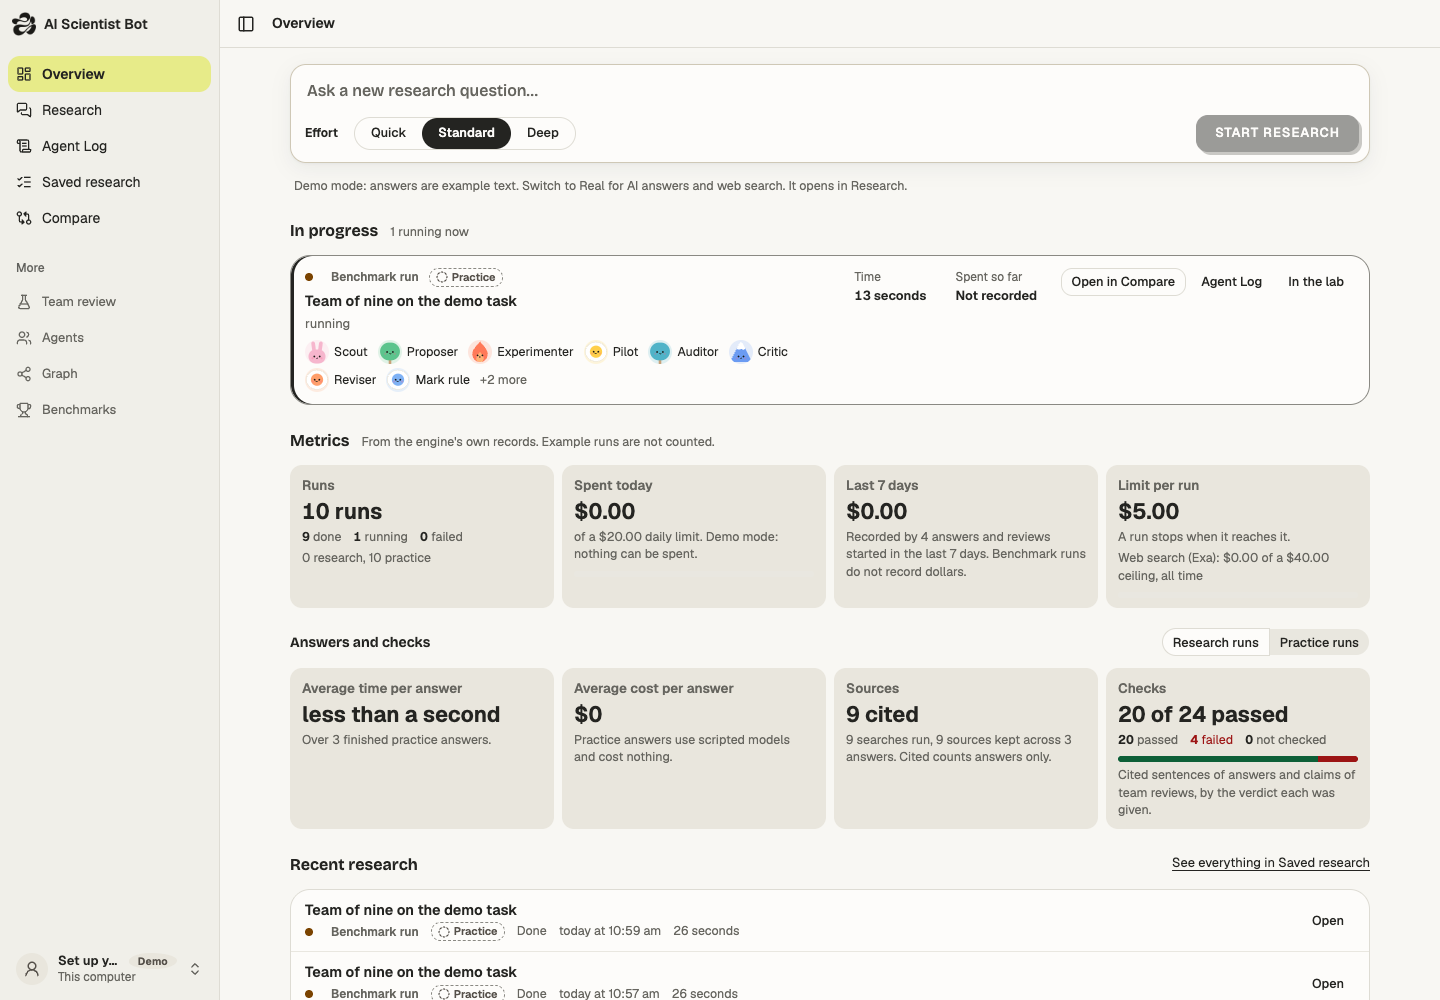
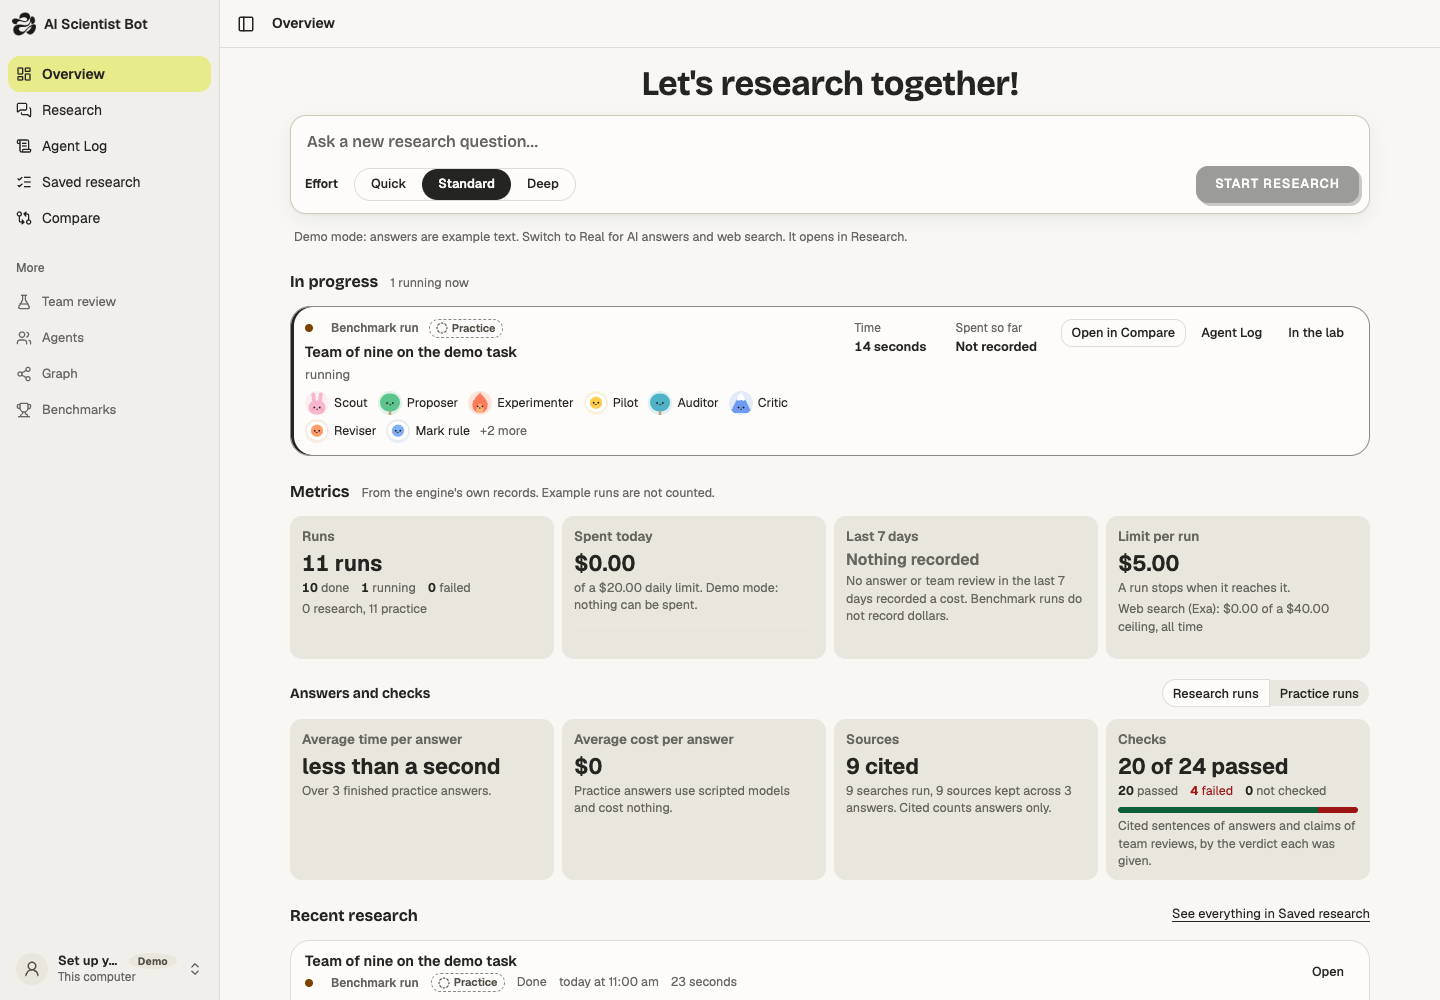
no-mistakes(review): Scope run counts, relabel cap, add home heading

diff --git a/dashboard/src/views/overview.test.tsx b/dashboard/src/views/overview.test.tsx
@@ -91,6 +91,15 @@ describe("the home page: research in progress", () => {
     expect(within(answer).getByRole("link", { name: "Agent Log" }).getAttribute("href")).toBe("#Lab/answer/a-run")
   })
 
+  it("a row past the followed few does not claim its run is only starting", async () => {
+    show({ board: Array.from({ length: 5 }, (_, i) => ({ id: `b-${i}`, brief: "kras.md", status: "running", startedAt: NOW - (10 - i) * MIN, mock: true, members: [] })) })
+    const list = await screen.findByRole("list", { name: "Research in progress" })
+    const rows = within(list).getAllByRole("listitem").filter((li) => li.classList.contains("ov-run"))
+    expect(rows).toHaveLength(5)
+    expect(within(rows[4]).getByLabelText("Now").textContent).toBe("Step not shown here. Open the Agent Log to follow it.")
+    expect(streams.some((s) => s.url.endsWith("/api/runs/b-4/events"))).toBe(false)
+  })
+
   it("says plainly when nothing is running", async () => {
     show({ answers: { items: [{ id: "a1", question: "Old", status: "done", mode: "demo", startedAt: NOW - HOUR }] } })
     expect(await within(section("In progress")).findByText(/Nothing is running now/)).toBeTruthy()
@@ -124,16 +133,20 @@ describe("the home page: research in progress", () => {
 })
 
 describe("the home page: metrics from recorded data only", () => {
-  it("counts done, running and failed runs (examples never), and research apart from practice", async () => {
+  it("counts done, running and failed runs of the chosen scope only (examples never)", async () => {
     show({
       board: [{ id: "b-live", brief: "kras.md", status: "done", startedAt: NOW - 2 * HOUR }, { id: "b-practice", brief: "kras.md", status: "done", startedAt: NOW - 3 * HOUR }, { id: "ex", brief: "x.md", status: "done", startedAt: NOW, example: true }],
       answers: { items: [{ id: "a1", question: "Does it work?", status: "done", mode: "real", startedAt: NOW - HOUR }, { id: "a2", question: "A practice one", status: "running", mode: "demo", startedAt: NOW }] },
       swarm: [{ id: "s1", solver: "glhf", task: "demo", phase: "done", model: "mock", modelClass: "scripted", startedAt: NOW - 4 * HOUR }, { id: "s2", solver: "single", task: "demo", phase: "failed", model: "mock", modelClass: "scripted", startedAt: NOW - 5 * HOUR }],
     })
     // The older team reviews say how they were made in their first event: wait for both to be read.
-    await waitFor(() => expect(tile("Runs").textContent).toContain("2 research, 4 practice"))
-    expect(tile("Runs").textContent).toContain("6 runs")
-    expect(tile("Runs").textContent).toContain("4 done1 running1 failed")
+    // Research: b-live (real models, said in its first event) and a1.
+    await waitFor(() => expect(tile("Runs").textContent).toContain("2 runs"))
+    expect(tile("Runs").textContent).toContain("2 done0 running0 failed")
+    // Practice: b-practice, the Demo answer and the two scripted benchmark runs.
+    await userEvent.click(screen.getByRole("button", { name: "Practice runs" }))
+    expect(tile("Runs").textContent).toContain("4 runs")
+    expect(tile("Runs").textContent).toContain("2 done1 running1 failed")
   })
 
   it("shows today's spend against the engine's daily limit, and the recorded spend of the last 7 days", async () => {
@@ -149,8 +162,8 @@ describe("the home page: metrics from recorded data only", () => {
     await waitFor(() => expect(tile("Spent today").textContent).toContain("$3.46"))
     expect(tile("Spent today").textContent).toContain("of a $20.00 daily limit")
     expect(tile("Last 7 days").textContent).toContain("$3.00") // 0.5 + 1.5 + 1: the answer from a month ago is not in it
-    expect(tile("Limit per run").textContent).toContain("$5.00")
-    expect(tile("Limit per run").textContent).toContain("Web search (Exa): $0.04 of a $40.00 ceiling, all time")
+    expect(tile("Limit per team review").textContent).toContain("$5.00")
+    expect(tile("Limit per team review").textContent).toContain("Web search (Exa): $0.04 of a $40.00 ceiling, all time")
     // Averages over the three finished research answers, from their own records.
     expect(tile("Average time per answer").textContent).toContain("1 minute") // (60 + 120 + 30) / 3 = 70 s
     expect(tile("Average cost per answer").textContent).toContain("$3.67")
@@ -177,7 +190,7 @@ describe("the home page: metrics from recorded data only", () => {
     show({ paid: { paid: false, caps: {} } })
     await waitFor(() => expect(tile("Runs").textContent).toContain("0 runs"))
     expect(tile("Spent today").textContent).toContain("Not recorded")
-    expect(tile("Limit per run").textContent).toContain("Not recorded")
+    expect(tile("Limit per team review").textContent).toContain("Not recorded")
     expect(tile("Last 7 days").textContent).toContain("Nothing recorded")
     expect(tile("Average time per answer").textContent).toContain("No data")
     expect(tile("Average cost per answer").textContent).toContain("No data")
@@ -236,6 +249,9 @@ describe("the home page: the question box", () => {
     const { onOpen, sent } = show({}, { "POST /api/research": { status: 202, body: { id: "a-20261115000000-0000abcd", thread: "t-1", mode: "demo" } } })
     const box = await screen.findByLabelText("Ask a research question")
     expect(box.getAttribute("rows")).toBe("1") // one line
+    // The welcome heading stays above the box and names its section.
+    expect(screen.getByRole("heading", { level: 2, name: "Let's research together!" })).toBeTruthy()
+    expect(screen.getByRole("region", { name: "Let's research together!" }).contains(box)).toBe(true)
     await userEvent.type(box, "Is hERG a risk for KRAS G12C inhibitors?")
     await userEvent.click(screen.getByRole("button", { name: /^Send/ }))
     await waitFor(() => expect(onOpen).toHaveBeenCalledWith("Home"))

diff --git a/dashboard/src/overview/Metrics.tsx b/dashboard/src/overview/Metrics.tsx
@@ -1,5 +1,4 @@
-// The home page's numbers, from what the engine recorded and nothing else. Counts take every run (example runs are
-// never counted); spend today and the limits are the engine's own figures (GET /api/paid); the rest is counted from
+// The home page's numbers, from what the engine recorded and nothing else. Example runs are never counted; spend today and the limits are the engine's own figures (GET /api/paid); the rest is counted from
 // the run lists for research runs or for practice runs, never the two mixed. A number with nothing behind it says so.
 import { Button } from "@/components/ui/button"
 import { ButtonGroup } from "@/components/ui/button-group"
@@ -20,7 +19,7 @@ function Tile({ label, value, children, empty }: { label: string; value: string;
 }
 
 export function Metrics({ works, paid, scope, onScope }: { works: Work[]; paid: Paid | null | undefined; scope: Scope; onScope: (scope: Scope) => void }) {
-  const counts = countsOf(works)
+  const counts = countsOf(works, scope)
   const week = recentSpend(works, 7)
   const answer = perAnswer(works, scope)
   const sources = sourcesOf(works, scope)
@@ -28,10 +27,17 @@ export function Metrics({ works, paid, scope, onScope }: { works: Work[]; paid: 
   const which = scope === "research" ? "research" : "practice"
   return (
     <div className="ov-metrics">
+      <div className="ov-scope">
+        <h3 id="ov-scope-title">Which runs are counted</h3>
+        <ButtonGroup aria-labelledby="ov-scope-title">
+          <Button size="sm" variant={scope === "research" ? "secondary" : "outline"} aria-pressed={scope === "research"} onClick={() => onScope("research")}>Research runs</Button>
+          <Button size="sm" variant={scope === "practice" ? "secondary" : "outline"} aria-pressed={scope === "practice"} onClick={() => onScope("practice")}>Practice runs</Button>
+        </ButtonGroup>
+      </div>
       <div className="ov-tiles">
         <Tile label="Runs" value={many(counts.done + counts.running + counts.failed + counts.stopped, "run")}>
           <small className="ov-split"><span><b>{counts.done}</b> done</span><span><b>{counts.running}</b> running</span><span data-tone={counts.failed ? "bad" : undefined}><b>{counts.failed}</b> failed</span>{counts.stopped > 0 && <span><b>{counts.stopped}</b> stopped</span>}</small>
-          <small>{counts.research} research, {counts.practice} practice</small>
+          <small>{scope === "research" ? "Research runs only: practice runs are counted apart." : "Practice runs only: scripted models, $0."}</small>
         </Tile>
         <Tile label="Spent today" value={paid ? usdText(paid.spentToday) : "Not known"} empty={!paid || paid.spentToday === undefined}>
           {paid ? <>
@@ -42,8 +48,8 @@ export function Metrics({ works, paid, scope, onScope }: { works: Work[]; paid: 
         <Tile label="Last 7 days" value={week ? usdText(week.usd) : "Nothing recorded"} empty={!week}>
           <small>{week ? `Recorded by ${many(week.runs, "answer or review", "answers and reviews")} started in the last 7 days.` : "No answer or team review in the last 7 days recorded a cost."} Benchmark runs do not record dollars.</small>
         </Tile>
-        <Tile label="Limit per run" value={paid ? usdText(paid.perRun) : "Not known"} empty={!paid || paid.perRun === undefined}>
-          <small>A run stops when it reaches it.</small>
+        <Tile label="Limit per team review" value={paid ? usdText(paid.perRun) : "Not known"} empty={!paid || paid.perRun === undefined}>
+          <small>A team review stops when it reaches it. Each answer stops at its own level's cap.</small>
           {paid && paid.exaCeiling !== undefined && <>
             <small>Web search (Exa): {usdText(paid.exaUsed)} of a {usdText(paid.exaCeiling)} ceiling, all time</small>
             <div className="ov-track" role="img" aria-label={`${Math.round(share(paid.exaUsed, paid.exaCeiling))}% of the web search ceiling`}><i data-made="research" style={{ width: `${share(paid.exaUsed, paid.exaCeiling)}%` }} /></div>
@@ -51,13 +57,6 @@ export function Metrics({ works, paid, scope, onScope }: { works: Work[]; paid: 
         </Tile>
       </div>
 
-      <div className="ov-scope">
-        <h3 id="ov-scope-title">Answers and checks</h3>
-        <ButtonGroup aria-labelledby="ov-scope-title">
-          <Button size="sm" variant={scope === "research" ? "secondary" : "outline"} aria-pressed={scope === "research"} onClick={() => onScope("research")}>Research runs</Button>
-          <Button size="sm" variant={scope === "practice" ? "secondary" : "outline"} aria-pressed={scope === "practice"} onClick={() => onScope("practice")}>Practice runs</Button>
-        </ButtonGroup>
-      </div>
       <div className="ov-tiles">
         <Tile label="Average time per answer" value={answer.seconds === undefined ? "No data" : plainDuration(answer.seconds * 1000)} empty={answer.seconds === undefined}>
           <small>{answer.timed ? `Over ${many(answer.timed, `finished ${which} answer`)}.` : `No finished ${which} answer recorded its time yet.`}</small>

diff --git a/dashboard/src/overview/work.ts b/dashboard/src/overview/work.ts
@@ -95,17 +95,15 @@ export const elapsedOf = (w: Pick<Work, "startedAt" | "workStartedAt" | "finishe
 }
 
 // ---- The numbers ---------------------------------------------------------------------------------------------------
-export interface Counts { done: number; running: number; failed: number; stopped: number; research: number; practice: number }
-export function countsOf(works: readonly Work[]): Counts {
-  const c: Counts = { done: 0, running: 0, failed: 0, stopped: 0, research: 0, practice: 0 }
-  for (const w of counted(works)) {
+export interface Counts { done: number; running: number; failed: number; stopped: number }
+/** Runs of one scope by how they ended (or that they still run). */
+export function countsOf(works: readonly Work[], scope: Scope): Counts {
+  const c: Counts = { done: 0, running: 0, failed: 0, stopped: 0 }
+  for (const w of inScope(works, scope)) {
     if (w.live) c.running++
     else if (w.status === "failed") c.failed++
     else if (w.status === "cancelled" || w.status === "paused") c.stopped++
     else c.done++
-    const made = madeOf(w)
-    if (made === "research") c.research++
-    else if (made === "practice") c.practice++
   }
   return c
 }

diff --git a/dashboard/src/overview/QuickAsk.tsx b/dashboard/src/overview/QuickAsk.tsx
@@ -47,7 +47,8 @@ export function QuickAsk({ onOpen, onStarted }: { onOpen: (view: View) => void; 
   }
   const limit = answerLimitLine(catalog, level)
   return (
-    <section className="ov-ask" aria-label="New research">
+    <section className="ov-ask" aria-labelledby="ov-ask-title">
+      <h2 id="ov-ask-title" className="ov-ask-title">Let's research together!</h2>
       <AskBox id="ov-ask-box" rows={1} value={text} onChange={setText} onSubmit={(typed) => void ask(typed)} busy={busy} placeholder="Ask a new research question…"
         efforts={catalog?.efforts ?? []} effort={level} onEffort={setEffort} name="overview-effort" sendLabel="Start research" sendTitle="Start the answer and open it in Research">
         {refused ? <p className="newrun-error" role="alert">{refused}</p> : limit ? <p className="ov-note">{limit} It opens in Research.</p> : null}

diff --git a/dashboard/src/overview/Running.tsx b/dashboard/src/overview/Running.tsx
@@ -47,7 +47,7 @@ export function Running({ works, models, now, watched, onWatch, onOpenRun }: Run
                 <Provenance kind={work.provenance} compact />
               </div>
               <p className="ov-run-title">{work.title}</p>
-              <p className="ov-run-step" aria-label="Now">{seen.doing ?? "Starting. The first step has not been reported yet."}</p>
+              <p className="ov-run-step" aria-label="Now">{seen.doing ?? (models[key] ? "Starting. The first step has not been reported yet." : "Step not shown here. Open the Agent Log to follow it.")}</p>
               {seen.agents.length > 0 && (
                 <ul className="ov-run-agents" aria-label="Agents taking part">
                   {seen.agents.slice(0, 8).map((a) => <li key={a.name} title={a.label}><AgentAvatar name={a.name} size={24} /><span>{a.label}</span></li>)}

diff --git a/dashboard/src/overview/work.test.ts b/dashboard/src/overview/work.test.ts
@@ -53,8 +53,9 @@ describe("the figures", () => {
     ] },
     [],
   )
-  it("counts runs by how they ended, and research apart from practice", () => {
-    expect(countsOf(works)).toEqual({ done: 3, running: 0, failed: 1, stopped: 1, research: 4, practice: 1 })
+  it("counts runs of one scope by how they ended, never research and practice together", () => {
+    expect(countsOf(works, "research")).toEqual({ done: 2, running: 0, failed: 1, stopped: 1 }) // a1, a2; b1 failed; a4 cancelled
+    expect(countsOf(works, "practice")).toEqual({ done: 1, running: 0, failed: 0, stopped: 0 }) // the Demo answer a3
   })
   it("adds the dollars research runs started in the last 7 days recorded, never practice; none recorded is not $0", () => {
     expect(recentSpend(works, 7, NOW)).toEqual({ usd: 2.6, runs: 3 }) // b1, a1, a4: the practice a3 is not counted

diff --git a/dashboard/src/design/overview.css b/dashboard/src/design/overview.css
@@ -123,6 +123,8 @@
 .ov-home { gap: var(--space-5); }
 .ov-home > * { width: min(1100px, 100%); }
 .ov-ask .search-composer { margin: 0; }
+/* The welcome over the question box: large enough to read at a glance, smaller on narrow screens. */
+.ov-ask-title { margin: 0 0 var(--space-3); font-family: var(--font-display); font-size: clamp(26px, 2.2vw + 14px, 34px); font-weight: 650; line-height: 1.15; letter-spacing: -0.015em; color: var(--text); text-align: center; }
 .ov-ask .ov-note { margin-top: 6px; padding-inline: var(--space-1); }
 .ov-section { display: flex; flex-direction: column; gap: var(--space-3); min-width: 0; }
 .ov-section-head { display: flex; flex-wrap: wrap; align-items: baseline; gap: 4px var(--space-3); }

diff --git a/docs/status.md b/docs/status.md
@@ -141,7 +141,7 @@ sample.
 | Ask (question answering over runs) | Automated tests with a stand-in for the model API (`engine/test/glhf-ask.test.ts`). |
 | Docker Compose setup | Tested by hand on macOS on a new clone: `docker compose up --build`, then `docker compose exec engine npm run demo` (score 1.000) and `npm run doctor`. Not tested on Linux or Windows. Windows needs WSL2. |
 | Dashboard | Automated tests in `dashboard/src/`; run `npm --prefix dashboard test`. Quick and Standard Demo answers and a bundled KRAS team review were also checked by hand in a browser against an isolated engine, with paid calls off and locked. No real-model research answer was run. |
-| Overview as the home page: opens by default and from the sidebar brand; one-line question box that starts the answer and opens it in Research (its thread continues there); research in progress (question, agents, current step, time, spend so far, links to Research, Team review or Compare and the Agent Log); metrics from recorded data only (done, running and failed runs; spend today against the daily limit; recorded spend of the last 7 days; limit per run; average time and cost per answer; searches, sources kept and cited; checks passed, failed, not checked; research and practice apart); recent research; a compact Agent Lab | Automated tests with a stand-in engine in `dashboard/src/views/overview.test.tsx`, `dashboard/src/overview/work.test.ts` and `dashboard/src/overview/seen.test.ts`; the hand-off to Research in `dashboard/src/research/research.test.tsx`. The list lines the page reads are tested in `engine/test/research-all.test.ts` and `engine/test/board-listline.test.ts`. Checked by hand in a browser at 1440 and 420 pixels against an isolated engine with paid calls off and locked, with Demo answers, a scripted team review and scripted benchmark runs on the demo task. **Not seen with a real-model run**: no real spend was recorded. The step and agents of a benchmark run come from its notes, which say little while it runs. Room art is unchanged. |
+| Overview as the home page: opens by default and from the sidebar brand; a large "Let's research together!" heading over a one-line question box that starts the answer and opens it in Research (its thread continues there); research in progress (question, agents, current step, time, spend so far, links to Research, Team review or Compare and the Agent Log); metrics from recorded data only (done, running and failed runs; spend today against the daily limit; recorded spend of the last 7 days; limit per team review; average time and cost per answer; searches, sources kept and cited; checks passed, failed, not checked; research and practice apart); recent research; a compact Agent Lab | Automated tests with a stand-in engine in `dashboard/src/views/overview.test.tsx`, `dashboard/src/overview/work.test.ts` and `dashboard/src/overview/seen.test.ts`; the hand-off to Research in `dashboard/src/research/research.test.tsx`. The list lines the page reads are tested in `engine/test/research-all.test.ts` and `engine/test/board-listline.test.ts`. Checked by hand in a browser at 1440 and 420 pixels against an isolated engine with paid calls off and locked, with Demo answers, a scripted team review and scripted benchmark runs on the demo task. **Not seen with a real-model run**: no real spend was recorded. The step and agents of a benchmark run come from its notes, which say little while it runs. Room art is unchanged. |
 | Answers written in real time: the running answer's text appears as the engine streams it (`answer.delta`, a piece at least every 200 ms), under status lines of the team's steps; the reusable chat view `dashboard/src/research/LiveChat.tsx`; Demo answers stream their fixed text a few words at a time | Tested with Demo answers and fakes, not real models. Engine: `engine/test/research-live.test.ts` (pieces in order inside the write step, delivered live over the event stream, resume with `?after=`). Dashboard: `dashboard/src/research/livechat.test.tsx` (pieces render in order, a reconnect shows nothing twice, a finished answer is drawn at once, HTML in streamed text is not rendered). Checked by hand in a browser on Research against a locked Demo engine. |
 | Layout pass: two sidebar groups (main, How it works; Benchmarks and Compare open by address only), one 1100 px content edge (Graph and Research use a wider column), failed count kept on the Overview, Usage and limits in Settings, example questions fill the box, Research inspector without the Agent Lab tab (tabs on one line, panel flush to the right edge) | Checked in a browser with a Demo engine at 1440 × 900 (Overview, Research, Agent Log, Compare, Settings). Tests in `dashboard/src/nav.test.ts`, `dashboard/src/App.test.tsx`, `dashboard/src/views/overview.test.tsx`, `dashboard/src/views/settings.test.tsx`, `dashboard/src/views/HomeView.test.tsx`, `dashboard/src/views/ease.test.tsx` and `dashboard/src/research/inspector.test.tsx`. |
 | Agent Log replaces the standalone Agent Lab page | Tested with Demo research answers and a Demo team review. Shown as a group chat: agent pictures, grouped messages, "Show thinking", quiet notes for tools and system steps. Live events, agent and step filters, search, JSON and CSV downloads, built from the shadcn Select and DropdownMenu and the AI Elements Reasoning parts. Event rows and ordering have automated tests in `dashboard/src/lab/` and `dashboard/src/views/`. The Overview keeps a compact Lab. |

diff --git a/README.md b/README.md
@@ -135,7 +135,7 @@ Benchmarks and Compare are not in the sidebar. They open only by their address (
 
 | Screen | What it is for |
 |---|---|
-| Overview | The home page: the app opens here and the brand in the sidebar comes back here. A one-line question box starts an answer and opens it in Research, where a follow-up continues its thread. **In progress** lists every running answer, team review and benchmark run: the question, the agents taking part, the step running now, the time it has taken and what it has spent, each with links to Research (or Team review, Compare) and the Agent Log. **Metrics** shows done, running and failed runs, today's spend against the daily limit, the last 7 days' recorded spend, the limit per run, and average time and cost per answer, sources and checks for research runs or practice runs. **Recent research** lists what ended. A compact Agent Lab shows one running run. |
+| Overview | The home page: the app opens here and the brand in the sidebar comes back here. Under a large "Let's research together!" heading, a one-line question box starts an answer and opens it in Research, where a follow-up continues its thread. **In progress** lists every running answer, team review and benchmark run: the question, the agents taking part, the step running now, the time it has taken and what it has spent, each with links to Research (or Team review, Compare) and the Agent Log. **Metrics** shows today's spend against the daily limit, the last 7 days' recorded spend and the limit per team review, then done, running and failed runs, average time and cost per answer, sources and checks for research runs or practice runs. **Recent research** lists what ended. A compact Agent Lab shows one running run. |
 | Research | The chat. Ask a question and read the answer with its sources and its hypotheses. An example question fills the box; nothing is sent until you press Send. |
 | Saved research | Search past runs and open any result. The Examples tab has six read-only practice runs. |
 | Compare | Not in the sidebar; open `#Compare`. A team of nine agents against one agent alone, on the same task. |
